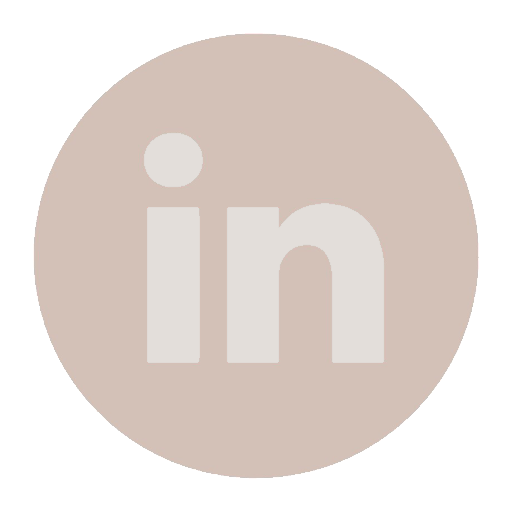
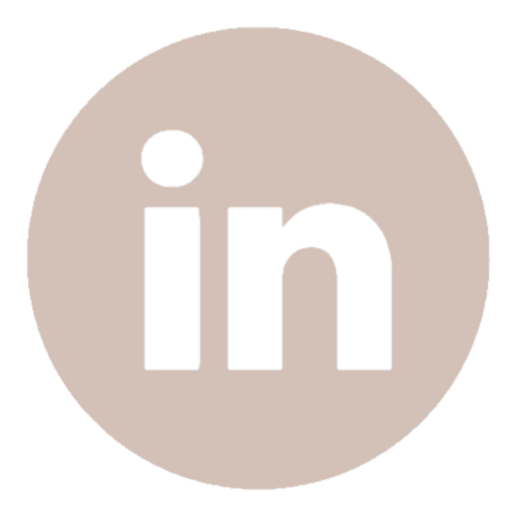
add dark mode widget

diff --git a/index.html b/index.html
@@ -31,7 +31,7 @@
           <li><a href="#projects">projects</a></li>
           <li><a href="#skills">skills</a></li>
           <li><a href="contact.html" >contact</a></li>
-          <li id="mode"><img src="./images/moon.png" atl="light-dark mode button"></li>
+          <!-- <li id="mode"><img src="./images/moon.png" atl="light-dark mode button" id="modeImg"></li> -->
         </ul>
       </nav>
     </header>
@@ -65,13 +65,13 @@
             <h3><a href="https://dbraxton6.github.io/Codecademy-Course-Projects/flexbox-business-site-starting/index.html">Granduer Getaways</a></h3>
             <p>A pretend business website I created to help hone my skills. It is currently a static website using just HTML and CSS.</p>
             <div class="projectSkills">
-              <img src="./images/html.png" alt="HTML logo">
-              <img src="./images/css.png" alt="CSS logo">
-              <img src="./images/responsive_web.png" alt="Responsive Web Design logo">
-              <img src="./images/commandLine.png" alt="Command Line logo">
-              <img src="./images/git.png" alt="Git logo">
-              <img src="./images/github.png" alt="Github logo">
-              <img src="./images/vsCode.png" alt="Visual Studio Code logo">
+              <img src="./images/html.png" class="html" alt="HTML logo">
+              <img src="./images/css.png" class="css" alt="CSS logo">
+              <img src="./images/responsive_web.png" class="responsive" alt="Responsive Web Design logo">
+              <img src="./images/commandLine.png" class="cmdLine" alt="Command Line logo">
+              <img src="./images/git.png" class="git" alt="Git logo">
+              <img src="./images/github.png" class="github" alt="Github logo">
+              <img src="./images/vsCode.png" class="vscode" alt="Visual Studio Code logo">
             </div>
             <div class="projectBtns">
               <a href="https://dbraxton6.github.io/Codecademy-Course-Projects/flexbox-business-site-starting/index.html" target="_blank" class="btn">Live Site</a>
@@ -87,12 +87,12 @@
               design and style of a future webpage. My skills and style have since increased and changed drastically. It's fun to watch 
               your work improve!</p>
             <div class="projectSkills">
-              <img src="./images/html.png" alt="HTML logo">
-              <img src="./images/css.png" alt="CSS logo">
-              <img src="./images/commandLine.png" alt="Command Line logo">
-              <img src="./images/git.png" alt="Git logo">
-              <img src="./images/github.png" alt="Github logo">
-              <img src="./images/vsCode.png" alt="Visual Studio Code logo">
+              <img src="./images/html.png" class="html" alt="HTML logo">
+              <img src="./images/css.png" class="css" alt="CSS logo">
+              <img src="./images/commandLine.png" class="cmdLine" alt="Command Line logo">
+              <img src="./images/git.png" class="git" alt="Git logo">
+              <img src="./images/github.png" class="github" alt="Github logo">
+              <img src="./images/vsCode.png" class="vscode" alt="Visual Studio Code logo">
             </div>
             <div class="projectBtns">
               <a href="https://dbraxton6.github.io/Codecademy-Course-Projects/web_design_system/index.html" target="_blank" class="btn">Live Site</a>
@@ -109,15 +109,15 @@
             <p>You probably guessed it -- this site was developed and designed by yours truly using a combination of HTML, CSS, and 
               Javascript. Here is where I plan to showcase my skills and other projects I am working on.</p>
             <div class="projectSkills">
-              <img src="./images/html.png" alt="HTML logo">
-              <img src="./images/css.png" alt="CSS logo">
-              <img src="./images/js.png" alt="JavaScript logo">
-              <img src="./images/responsive_web.png" alt="Responsive Web Design logo">
-              <img src="./images/web_accessibility.png" alt="Web Accessibility logo">
-              <img src="./images/commandLine.png" alt="Command Line logo">
-              <img src="./images/git.png" alt="Git logo">
-              <img src="./images/github.png" alt="Github logo">
-              <img src="./images/vsCode.png" alt="Visual Studio Code logo">
+              <img src="./images/html.png" class="html" alt="HTML logo">
+              <img src="./images/css.png" class="css" alt="CSS logo">
+              <img src="./images/js.png" class="js" alt="JavaScript logo">
+              <img src="./images/responsive_web.png" class="responsive" alt="Responsive Web Design logo">
+              <img src="./images/web_accessibility.png" class="accessibility" alt="Web Accessibility logo">
+              <img src="./images/commandLine.png" class="cmdLine" alt="Command Line logo">
+              <img src="./images/git.png" class="git" alt="Git logo">
+              <img src="./images/github.png" class="github" alt="Github logo">
+              <img src="./images/vsCode.png" class="vscode" alt="Visual Studio Code logo">
             </div>
             <div class="projectBtns">
               <a href="index.html" target="_blank" class="btn">Live Site</a>
@@ -133,7 +133,7 @@
               classes in 2017 using C (assembly). It has its fair share of bugs, but I learned a ton! You can watch a clip of gameplay here 
               or play the game yourself by following the instructions in my Github repo README!</p>
             <div class="projectSkills">
-              <img src="./images/c.png" alt="C programming logo">
+              <img src="./images/c.png" class="c" alt="C programming logo">
               <img src="./images/gba.png" alt="Gameboy Advance logo">
             </div>
             <div class="projectBtns">
@@ -156,39 +156,39 @@
         <p>Meet the programs and technologies used to bring my projects to life!</p>
         <div class="skills-toolkits">
           <div class="skill">
-            <img src="./images/html.png" alt="HTML logo">
+            <img src="./images/html.png" class="html" alt="HTML logo">
             <p>HTML 5</p>
           </div>
           <div class="skill">
-            <img src="./images/css.png" alt="CSS logo">
+            <img src="./images/css.png" class="css" alt="CSS logo">
             <p>CSS 3</p>
           </div>
           <div class="skill">
-            <img src="./images/js.png" alt="JavaScript logo">
+            <img src="./images/js.png" class="js" alt="JavaScript logo">
             <p>JavaScript</p>
           </div>
           <div class="skill">
-            <img src="./images/git.png" alt="Git logo">
+            <img src="./images/git.png" class="git" alt="Git logo">
             <p>Git</p>
           </div>
           <div class="skill">
-            <img src="./images/github.png" alt="Github logo">
+            <img src="./images/github.png" class="github" alt="Github logo">
             <p>Github</p>
           </div>
           <div class="skill">
-            <img src="./images/commandLine.png" alt="Command Line logo">
+            <img src="./images/commandLine.png" class="cmdLine" alt="Command Line logo">
             <p>Command Line</p>
           </div>
           <div class="skill">
-            <img src="./images/vsCode.png" alt="Visual Studio Code logo">
+            <img src="./images/vsCode.png" class="vscode" alt="Visual Studio Code logo">
             <p>Visual Studio Code</p>
           </div>
           <div class="skill">
-            <img src="./images/responsive_web.png" alt="Responsive web design logo">
+            <img src="./images/responsive_web.png" class="responsive" alt="Responsive web design logo">
             <p>Responsive Web Design</p>
           </div>
           <div class="skill">
-            <img src="./images/web_accessibility.png" alt="Website accessibility logo">
+            <img src="./images/web_accessibility.png" class="accessibility" alt="Website accessibility logo">
             <p>Website Accessibility</p>
           </div>
         </div>
@@ -204,5 +204,6 @@
   </body>
 
   <script src="./script.js"></script>
+  <script src="https://cdn.jsdelivr.net/npm/darkmode-js@1.5.7/lib/darkmode-js.min.js"></script>
   
 </html>

diff --git a/style.css b/style.css
@@ -6,13 +6,6 @@
 #D3C0B6 -- accent 
 */
 
-/* dark-mode colors */
-/* 
-#272727 -- background color
-#D3C0B6 -- headers
-#E3DEDA -- text
-#9EA396 or #516C5F -- accent
-*/
 
 footer {
     margin-top: 10rem;
@@ -152,6 +145,63 @@ textarea {
     text-align: center;
 }
 
+.darkmode--activated p, .darkmode--activated .title-descr p, .darkmode--activated .skills-toolkits p {
+    color: #3a4d43;
+}
+
+
+.darkmode--activated .accessibility {
+    content: url("./images/web_accessibility2.png");
+}
+
+.darkmode--activated .cmdLine {
+    content: url("./images/commandLine2.png");
+}
+
+.darkmode--activated .c {
+    content: url("./images/c2.png");
+}
+
+.darkmode--activated .css {
+    content: url("./images/css2.png");
+}
+
+.darkmode--activated .git {
+    content: url("./images/git2.png");
+}
+
+.darkmode--activated .github {
+    content: url("./images/github2.png");
+}
+
+.darkmode--activated .html {
+    content: url("./images/html2.png");
+}
+
+.darkmode--activated .ig {
+    content: url("./images/instagram2.png");
+}
+
+.darkmode--activated .js {
+    content: url("./images/js2.png");
+}
+
+.darkmode--activated .linkedin {
+    content: url("./images/linkedin2.png");
+}
+
+.darkmode--activated .responsive {
+    content: url("./images/responsive_web2.png");
+}
+
+.darkmode--activated .twitter {
+    content: url("./images/twitter2.png");
+}
+
+.darkmode--activated .vscode {
+    content: url("./images/vsCode2.png");
+}
+
 .disclaimer {
     float: right;
 }
@@ -162,6 +212,8 @@ textarea {
     padding: 1rem;
     margin: 1.5rem;
 } */
+
+
 
 
 
@@ -303,7 +355,7 @@ textarea {
 }
 
 
-#mode img {
+/* #mode img {
     width: 2rem;
     height: 1.5rem;
     
@@ -311,10 +363,11 @@ textarea {
 
 #mode img:hover {
     cursor: pointer;
-}
+} */
 
 #lostSurvImg {
     object-fit: cover;
+    isolation: isolate;
 }
 
 

diff --git a/contact.html b/contact.html
@@ -31,7 +31,7 @@
           <li><a href="index.html#projects">projects</a></li>
           <li><a href="index.html#skills">skills</a></li>
           <li><a href="contact.html" >contact</a></li>
-          <li id="mode"><img src="./images/moon.png" atl="light-dark mode button"></li>
+          <!-- <li id="mode"><img src="./images/moon.png" atl="light-dark mode button" id="modeImg"></li> -->
         </ul>
       </nav>
     </header>
@@ -71,10 +71,10 @@
         <hr>
         <h2>Find Me Online</h2>
         <div class="socialImgs">
-          <a href="https://github.com/DBraxton6" target="_blank"><img src="./images/github.png"  alt="Github logo"></a>
-          <a href="https://www.linkedin.com/in/daisha-braxton-5a338019/"><img src="./images/linkedin.png" alt="LinkedIn logo"></a>
-          <a href="instagram.com"><img src="./images/instagram.png" alt="Instagram logo"></a>
-          <a href="twitter.com"><img src="./images/twitter.png" alt="Twitter logo"></a>
+          <a href="https://github.com/DBraxton6" target="_blank"><img src="./images/github.png"  class="github" alt="Github logo"></a>
+          <a href="https://www.linkedin.com/in/daisha-braxton-5a338019/"><img src="./images/linkedin.png" class="linkedin" alt="LinkedIn logo"></a>
+          <a href="instagram.com"><img src="./images/instagram.png" class="ig" alt="Instagram logo"></a>
+          <a href="twitter.com"><img src="./images/twitter.png" class="twitter" alt="Twitter logo"></a>
         </div>
       </div>
     </div>
@@ -88,5 +88,6 @@
   </body>
 
   <script src="./script.js"></script>
+  <script src="https://cdn.jsdelivr.net/npm/darkmode-js@1.5.7/lib/darkmode-js.min.js"></script>
   
 </html>

diff --git a/script.js b/script.js
@@ -5,31 +5,8 @@
 #E3DEDA -- background color 
 #D3C0B6 -- accent 
 */
+function addDarkmodeWidget() {
+    new Darkmode().showWidget();
+}
+window.addEventListener('load', addDarkmodeWidget);
 
-/* dark-mode colors */
-/* 
-#272727 -- background color
-#D3C0B6 -- headers
-#E3DEDA -- text
-#9EA396 or #516C5F -- accent
-*/
-
-let mode = 'light';
-
-function changeMode () {
-    // change items to dark mode
-    if (mode === 'light') {
-        document.getElementsByTagName('html')[0].style.backgroundColor = '#272727';
-        
-        mode = 'dark';
-    } else if (mode === 'dark') { // change items to light mode
-        document.getElementsByTagName('html')[0].style.backgroundColor = '#E3DEDA';
-        
-        mode = 'light';
-    }
-};
-
-
-
-
-document.getElementById('mode').onclick = changeMode;
